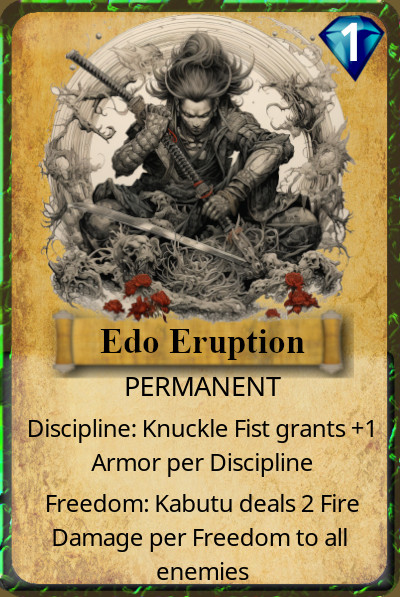
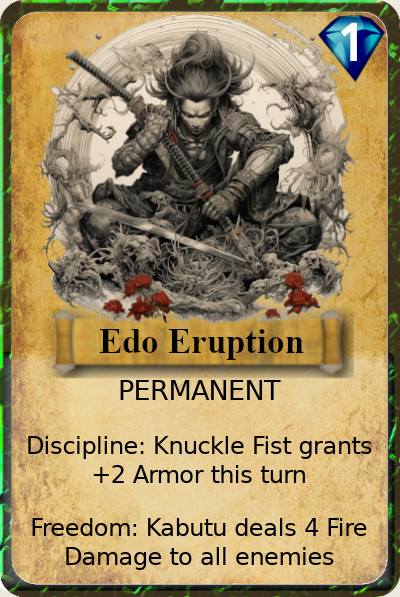
minor balance updates

diff --git a/level1fight2.js b/level1fight2.js
@@ -749,7 +749,7 @@ class Level1Fight2 extends BaseScene {self
         }
         
         function normalizeCard(card, target, isLastEnemy = false) {
-            const stancePoints = gameState.player.stancePoints
+            const stancePoints = gameState.player.stancePoints;
 
             const moshpitMassacreCondition = (card.key === 'moshpitMassacre' && stancePoints > 0 && target.poison > 0);
             const scorchedSoulCondition = (card.key === 'scorchedSoul' && target.poison > 0);
@@ -763,22 +763,22 @@ class Level1Fight2 extends BaseScene {self
             gameState.troopsOfTakamoriCondition = (card.key === 'troopsOfTakamori' ? true : false);
             
             const steelToeOutcome = stancePoints > 0 ? 2 * (1 + stancePoints) : 2;
-            const rottenResonanceOutcome = rottenResonanceCondition ? 1 : 0    
+            const rottenResonanceOutcome = rottenResonanceCondition ? 1 : 0
 
             return {
                 damagePlayed: moshpitMassacreCondition ? 11 : getValueOrInvoke(card.damage),
-                firePlayed: kabutuEdoCondition ? 2 * stancePoints : (scorchedSoulCondition ? 13 : getValueOrInvoke(card.fire)),
+                firePlayed: kabutuEdoCondition ? 4 : (scorchedSoulCondition ? 13 : getValueOrInvoke(card.fire)),
                 stancePointsPlayed: kabutuEdoCondition && isLastEnemy ? -1 : getValueOrInvoke(card.stancePoints),
                 poisonPlayed: bladesBlightCondition ? target.poison : getValueOrInvoke(card.poison) + rottenResonanceOutcome,
                 healPlayed: getValueOrInvoke(card.heal),
                 strengthPlayed: getValueOrInvoke(card.strength),
-                armorPlayed: knuckleFistEdoCondition ? - stancePoints : getValueOrInvoke(card.armor),
+                armorPlayed: knuckleFistEdoCondition ? 2 : getValueOrInvoke(card.armor),
                 reduceTargetArmorPlayed: steelToeCondition ? steelToeOutcome : getValueOrInvoke(card.reduceTargetArmor),
                 reduceTargetStrengthPlayed: roninsRotCondition ? target.poison : getValueOrInvoke(card.reduceTargetStrength),
                 drawCardPlayed: getValueOrInvoke(card.drawCard),
                 poisonRemovePlayed: getValueOrInvoke(card.poisonRemove)
             };
-        }
+        };
         
         function activateDBeat() {
             if (gameState.discardPile.length > 0) {
@@ -2438,7 +2438,7 @@ class Level1Fight2 extends BaseScene {self
                 gameState.permanentSlots.push(            
                     { available: true, x: 50, y: 130, index: 4 },
                 );
-                gameState.deck.push( 
+                gameState.bonusCards.push( 
                     {key: 'bouncingSoles2', type: 'permanent', cost: 4, goldCost: 4, token: 'bouncingSolesToken'}
                 );
 

diff --git a/level1fight3.js b/level1fight3.js
@@ -739,7 +739,7 @@ class Level1Fight3 extends BaseScene {self
         }
         
         function normalizeCard(card, target, isLastEnemy = false) {
-            const stancePoints = gameState.player.stancePoints
+            const stancePoints = gameState.player.stancePoints;
 
             const moshpitMassacreCondition = (card.key === 'moshpitMassacre' && stancePoints > 0 && target.poison > 0);
             const scorchedSoulCondition = (card.key === 'scorchedSoul' && target.poison > 0);
@@ -753,22 +753,22 @@ class Level1Fight3 extends BaseScene {self
             gameState.troopsOfTakamoriCondition = (card.key === 'troopsOfTakamori' ? true : false);
             
             const steelToeOutcome = stancePoints > 0 ? 2 * (1 + stancePoints) : 2;
-            const rottenResonanceOutcome = rottenResonanceCondition ? 1 : 0    
+            const rottenResonanceOutcome = rottenResonanceCondition ? 1 : 0
 
             return {
                 damagePlayed: moshpitMassacreCondition ? 11 : getValueOrInvoke(card.damage),
-                firePlayed: kabutuEdoCondition ? 2 * stancePoints : (scorchedSoulCondition ? 13 : getValueOrInvoke(card.fire)),
+                firePlayed: kabutuEdoCondition ? 4 : (scorchedSoulCondition ? 13 : getValueOrInvoke(card.fire)),
                 stancePointsPlayed: kabutuEdoCondition && isLastEnemy ? -1 : getValueOrInvoke(card.stancePoints),
                 poisonPlayed: bladesBlightCondition ? target.poison : getValueOrInvoke(card.poison) + rottenResonanceOutcome,
                 healPlayed: getValueOrInvoke(card.heal),
                 strengthPlayed: getValueOrInvoke(card.strength),
-                armorPlayed: knuckleFistEdoCondition ? - stancePoints : getValueOrInvoke(card.armor),
+                armorPlayed: knuckleFistEdoCondition ? 2 : getValueOrInvoke(card.armor),
                 reduceTargetArmorPlayed: steelToeCondition ? steelToeOutcome : getValueOrInvoke(card.reduceTargetArmor),
                 reduceTargetStrengthPlayed: roninsRotCondition ? target.poison : getValueOrInvoke(card.reduceTargetStrength),
                 drawCardPlayed: getValueOrInvoke(card.drawCard),
                 poisonRemovePlayed: getValueOrInvoke(card.poisonRemove)
             };
-        }
+        };
         
         function activateDBeat() {
             if (gameState.discardPile.length > 0) {
@@ -2367,7 +2367,7 @@ class Level1Fight3 extends BaseScene {self
                 gameState.permanentSlots.push(            
                     { available: true, x: 50, y: 130, index: 4 },
                 );
-                gameState.deck.push( 
+                gameState.bonusCards.push( 
                     {key: 'bouncingSoles2', type: 'permanent', cost: 4, goldCost: 4, token: 'bouncingSolesToken'}
                 );
 

diff --git a/level2fight2.js b/level2fight2.js
@@ -768,7 +768,7 @@ class Level2Fight2 extends BaseScene {self
         }
         
         function normalizeCard(card, target, isLastEnemy = false) {
-            const stancePoints = gameState.player.stancePoints
+            const stancePoints = gameState.player.stancePoints;
 
             const moshpitMassacreCondition = (card.key === 'moshpitMassacre' && stancePoints > 0 && target.poison > 0);
             const scorchedSoulCondition = (card.key === 'scorchedSoul' && target.poison > 0);
@@ -782,22 +782,22 @@ class Level2Fight2 extends BaseScene {self
             gameState.troopsOfTakamoriCondition = (card.key === 'troopsOfTakamori' ? true : false);
             
             const steelToeOutcome = stancePoints > 0 ? 2 * (1 + stancePoints) : 2;
-            const rottenResonanceOutcome = rottenResonanceCondition ? 1 : 0    
+            const rottenResonanceOutcome = rottenResonanceCondition ? 1 : 0
 
             return {
                 damagePlayed: moshpitMassacreCondition ? 11 : getValueOrInvoke(card.damage),
-                firePlayed: kabutuEdoCondition ? 2 * stancePoints : (scorchedSoulCondition ? 13 : getValueOrInvoke(card.fire)),
+                firePlayed: kabutuEdoCondition ? 4 : (scorchedSoulCondition ? 13 : getValueOrInvoke(card.fire)),
                 stancePointsPlayed: kabutuEdoCondition && isLastEnemy ? -1 : getValueOrInvoke(card.stancePoints),
                 poisonPlayed: bladesBlightCondition ? target.poison : getValueOrInvoke(card.poison) + rottenResonanceOutcome,
                 healPlayed: getValueOrInvoke(card.heal),
                 strengthPlayed: getValueOrInvoke(card.strength),
-                armorPlayed: knuckleFistEdoCondition ? - stancePoints : getValueOrInvoke(card.armor),
+                armorPlayed: knuckleFistEdoCondition ? 2 : getValueOrInvoke(card.armor),
                 reduceTargetArmorPlayed: steelToeCondition ? steelToeOutcome : getValueOrInvoke(card.reduceTargetArmor),
                 reduceTargetStrengthPlayed: roninsRotCondition ? target.poison : getValueOrInvoke(card.reduceTargetStrength),
                 drawCardPlayed: getValueOrInvoke(card.drawCard),
                 poisonRemovePlayed: getValueOrInvoke(card.poisonRemove)
             };
-        }
+        };
         
         function activateDBeat() {
             if (gameState.discardPile.length > 0) {
@@ -2425,7 +2425,7 @@ class Level2Fight2 extends BaseScene {self
                 gameState.permanentSlots.push(            
                     { available: true, x: 50, y: 130, index: 4 },
                 );
-                gameState.deck.push( 
+                gameState.bonusCards.push( 
                     {key: 'bouncingSoles2', type: 'permanent', cost: 4, goldCost: 4, token: 'bouncingSolesToken'}
                 );
 

diff --git a/level3fight1.js b/level3fight1.js
@@ -806,15 +806,14 @@ class Level3Fight1 extends BaseScene {self
             const steelToeOutcome = stancePoints > 0 ? 2 * (1 + stancePoints) : 2;
             const rottenResonanceOutcome = rottenResonanceCondition ? 1 : 0    
 
-            //NB Level specific multiplier (1.5) for fire damage.
             return {
                 damagePlayed: moshpitMassacreCondition ? 11 : getValueOrInvoke(card.damage),
-                firePlayed: ( kabutuEdoCondition ? 2 * stancePoints : (scorchedSoulCondition ? 13 : getValueOrInvoke(card.fire)) ),
+                firePlayed: kabutuEdoCondition ? 4 : (scorchedSoulCondition ? 13 : getValueOrInvoke(card.fire)),
                 stancePointsPlayed: kabutuEdoCondition && isLastEnemy ? -1 : getValueOrInvoke(card.stancePoints),
                 poisonPlayed: bladesBlightCondition ? target.poison : getValueOrInvoke(card.poison) + rottenResonanceOutcome,
                 healPlayed: getValueOrInvoke(card.heal),
                 strengthPlayed: getValueOrInvoke(card.strength),
-                armorPlayed: knuckleFistEdoCondition ? - stancePoints : getValueOrInvoke(card.armor),
+                armorPlayed: knuckleFistEdoCondition ? 2 : getValueOrInvoke(card.armor),
                 reduceTargetArmorPlayed: steelToeCondition ? steelToeOutcome : getValueOrInvoke(card.reduceTargetArmor),
                 reduceTargetStrengthPlayed: roninsRotCondition ? target.poison : getValueOrInvoke(card.reduceTargetStrength),
                 drawCardPlayed: getValueOrInvoke(card.drawCard),
@@ -2512,7 +2511,7 @@ class Level3Fight1 extends BaseScene {self
                 gameState.permanentSlots.push(            
                     { available: true, x: 50, y: 130, index: 4 },
                 );
-                gameState.deck.push( 
+                gameState.bonusCards.push( 
                     {key: 'bouncingSoles2', type: 'permanent', cost: 4, goldCost: 4, token: 'bouncingSolesToken'}
                 );
 

diff --git a/level3fight2.js b/level3fight2.js
@@ -735,15 +735,14 @@ class Level3Fight2 extends BaseScene {self
             const steelToeOutcome = stancePoints > 0 ? 2 * (1 + stancePoints) : 2;
             const rottenResonanceOutcome = rottenResonanceCondition ? 1 : 0    
 
-            //NB Level specific multiplier (1.5) for fire damage.
             return {
                 damagePlayed: moshpitMassacreCondition ? 11 : getValueOrInvoke(card.damage),
-                firePlayed: ( kabutuEdoCondition ? 2 * stancePoints : (scorchedSoulCondition ? 13 : getValueOrInvoke(card.fire)) ),
+                firePlayed: kabutuEdoCondition ? 4 : (scorchedSoulCondition ? 13 : getValueOrInvoke(card.fire)),
                 stancePointsPlayed: kabutuEdoCondition && isLastEnemy ? -1 : getValueOrInvoke(card.stancePoints),
                 poisonPlayed: bladesBlightCondition ? target.poison : getValueOrInvoke(card.poison) + rottenResonanceOutcome,
                 healPlayed: getValueOrInvoke(card.heal),
                 strengthPlayed: getValueOrInvoke(card.strength),
-                armorPlayed: knuckleFistEdoCondition ? - stancePoints : getValueOrInvoke(card.armor),
+                armorPlayed: knuckleFistEdoCondition ? 2 : getValueOrInvoke(card.armor),
                 reduceTargetArmorPlayed: steelToeCondition ? steelToeOutcome : getValueOrInvoke(card.reduceTargetArmor),
                 reduceTargetStrengthPlayed: roninsRotCondition ? target.poison : getValueOrInvoke(card.reduceTargetStrength),
                 drawCardPlayed: getValueOrInvoke(card.drawCard),
@@ -2472,7 +2471,7 @@ class Level3Fight2 extends BaseScene {self
                 gameState.permanentSlots.push(            
                     { available: true, x: 50, y: 130, index: 4 },
                 );
-                gameState.deck.push( 
+                gameState.bonusCards.push( 
                     {key: 'bouncingSoles2', type: 'permanent', cost: 4, goldCost: 4, token: 'bouncingSolesToken'}
                 );
 

diff --git a/preload.js b/preload.js
@@ -288,7 +288,7 @@ class Preload extends Phaser.Scene {
             {key: 'coverCharge',        type: 'buff',           cost: 2, stancePoints: 0, damage: 0, fire: 0, poison: 0, heal: 0, poisonRemove: 0, strength: 0, armor: 0, reduceTargetArmor: 0, reduceTargetStrength: 0, drawCard: 0, oneShot: true},
             {key: 'seppuku',            type: 'buff',           cost: 1, stancePoints: 0, damage: 0, fire: 0, poison: 0, heal: -5, poisonRemove: 0, strength: () => gameState.player.stancePoints < 0 ? 1 - gameState.player.stancePoints : 1, armor: 0, reduceTargetArmor: 0, reduceTargetStrength: 0, drawCard: 0},
             {key: 'canibalize',         type: 'buff',           cost: 1, stancePoints: 0, damage: 0, fire: 0, poison: 0, heal: 0, poisonRemove: 0, strength: 0, armor: 0, reduceTargetArmor: 0, reduceTargetStrength: 0, drawCard: 0},
-            {key: 'saisenBlaster',      type: 'buff',           cost: 1, goldCost: 1, stancePoints: 1, damage: 0, fire: 0, poison: 0, heal: 0, poisonRemove: 0, strength: 0, armor: 10, reduceTargetArmor: 0, reduceTargetStrength: 0, drawCard: 0},
+            {key: 'saisenBlaster',      type: 'buff',           cost: 1, goldCost: 1, stancePoints: -2, damage: 0, fire: 0, poison: 0, heal: 0, poisonRemove: 0, strength: 0, armor: 10, reduceTargetArmor: 0, reduceTargetStrength: 0, drawCard: 0},
            
             {key: 'bassSolo',           type: 'targetAll',      cost: 1, stancePoints: 0, damage: 6, fire: 0, poison: 0, heal: 0, poisonRemove: 0, strength: 0, armor: 0, reduceTargetArmor: 0, reduceTargetStrength: 0, drawCard: 0},
             {key: 'rottenResonance',    type: 'targetAll',      cost: 1, stancePoints: 0, damage: 0, fire: 0, poison: 1, heal: 0, poisonRemove: 0, strength: 0, armor: 0, reduceTargetArmor: 0, reduceTargetStrength: 0, drawCard: 0},

diff --git a/level3fight3.js b/level3fight3.js
@@ -776,12 +776,12 @@ class Level3Fight3 extends BaseScene {self
             //NB Level specific multiplier (1.5) for fire damage.
             return {
                 damagePlayed: moshpitMassacreCondition ? 11 : getValueOrInvoke(card.damage),
-                firePlayed: ( kabutuEdoCondition ? 2 * stancePoints : (scorchedSoulCondition ? 13 : getValueOrInvoke(card.fire)) ),
+                firePlayed: kabutuEdoCondition ? 4 : (scorchedSoulCondition ? 13 : getValueOrInvoke(card.fire)),
                 stancePointsPlayed: kabutuEdoCondition && isLastEnemy ? -1 : getValueOrInvoke(card.stancePoints),
                 poisonPlayed: bladesBlightCondition ? target.poison : getValueOrInvoke(card.poison) + rottenResonanceOutcome,
                 healPlayed: getValueOrInvoke(card.heal),
                 strengthPlayed: getValueOrInvoke(card.strength),
-                armorPlayed: knuckleFistEdoCondition ? - stancePoints : getValueOrInvoke(card.armor),
+                armorPlayed: knuckleFistEdoCondition ? 2 : getValueOrInvoke(card.armor),
                 reduceTargetArmorPlayed: steelToeCondition ? steelToeOutcome : getValueOrInvoke(card.reduceTargetArmor),
                 reduceTargetStrengthPlayed: roninsRotCondition ? target.poison : getValueOrInvoke(card.reduceTargetStrength),
                 drawCardPlayed: getValueOrInvoke(card.drawCard),
@@ -2494,7 +2494,7 @@ class Level3Fight3 extends BaseScene {self
                 gameState.permanentSlots.push(            
                     { available: true, x: 50, y: 130, index: 4 },
                 );
-                gameState.deck.push( 
+                gameState.bonusCards.push( 
                     {key: 'bouncingSoles2', type: 'permanent', cost: 4, goldCost: 4, token: 'bouncingSolesToken'}
                 );
 

diff --git a/level2fight3.js b/level2fight3.js
@@ -745,12 +745,12 @@ class Level2Fight3 extends BaseScene {self
             
             return {
                 damagePlayed: moshpitMassacreCondition ? 11 : getValueOrInvoke(card.damage),
-                firePlayed: fireMultiplier * ( kabutuEdoCondition ? 2 * stancePoints : (scorchedSoulCondition ? 13 : getValueOrInvoke(card.fire)) ),
+                firePlayed: fireMultiplier * ( kabutuEdoCondition ? 4 : (scorchedSoulCondition ? 13 : getValueOrInvoke(card.fire)) ),
                 stancePointsPlayed: kabutuEdoCondition && isLastEnemy ? -1 : getValueOrInvoke(card.stancePoints),
                 poisonPlayed: bladesBlightCondition ? target.poison : getValueOrInvoke(card.poison) + rottenResonanceOutcome,
                 healPlayed: getValueOrInvoke(card.heal),
                 strengthPlayed: getValueOrInvoke(card.strength),
-                armorPlayed: knuckleFistEdoCondition ? - stancePoints : getValueOrInvoke(card.armor),
+                armorPlayed: knuckleFistEdoCondition ? 2 : getValueOrInvoke(card.armor),
                 reduceTargetArmorPlayed: steelToeCondition ? steelToeOutcome : getValueOrInvoke(card.reduceTargetArmor),
                 reduceTargetStrengthPlayed: roninsRotCondition ? target.poison : getValueOrInvoke(card.reduceTargetStrength),
                 drawCardPlayed: getValueOrInvoke(card.drawCard),
@@ -2481,7 +2481,7 @@ class Level2Fight3 extends BaseScene {self
                 gameState.permanentSlots.push(            
                     { available: true, x: 50, y: 130, index: 4 },
                 );
-                gameState.deck.push( 
+                gameState.bonusCards.push( 
                     {key: 'bouncingSoles2', type: 'permanent', cost: 4, goldCost: 4, token: 'bouncingSolesToken'}
                 );
 

diff --git a/level2fight1.js b/level2fight1.js
@@ -820,12 +820,12 @@ class Level2Fight1 extends BaseScene {self
 
             return {
                 damagePlayed: moshpitMassacreCondition ? 11 : getValueOrInvoke(card.damage),
-                firePlayed: fireMultiplier * ( kabutuEdoCondition ? 2 * stancePoints : (scorchedSoulCondition ? 13 : getValueOrInvoke(card.fire)) ),
+                firePlayed: fireMultiplier * ( kabutuEdoCondition ? 4 : (scorchedSoulCondition ? 13 : getValueOrInvoke(card.fire)) ),
                 stancePointsPlayed: kabutuEdoCondition && isLastEnemy ? -1 : getValueOrInvoke(card.stancePoints),
                 poisonPlayed: bladesBlightCondition ? target.poison : getValueOrInvoke(card.poison) + rottenResonanceOutcome,
                 healPlayed: getValueOrInvoke(card.heal),
                 strengthPlayed: getValueOrInvoke(card.strength),
-                armorPlayed: knuckleFistEdoCondition ? - stancePoints : getValueOrInvoke(card.armor),
+                armorPlayed: knuckleFistEdoCondition ? 2 : getValueOrInvoke(card.armor),
                 reduceTargetArmorPlayed: steelToeCondition ? steelToeOutcome : getValueOrInvoke(card.reduceTargetArmor),
                 reduceTargetStrengthPlayed: roninsRotCondition ? target.poison : getValueOrInvoke(card.reduceTargetStrength),
                 drawCardPlayed: getValueOrInvoke(card.drawCard),
@@ -2498,7 +2498,7 @@ class Level2Fight1 extends BaseScene {self
                 gameState.permanentSlots.push(            
                     { available: true, x: 50, y: 130, index: 4 },
                 );
-                gameState.deck.push( 
+                gameState.bonusCards.push( 
                     {key: 'bouncingSoles2', type: 'permanent', cost: 4, goldCost: 4, token: 'bouncingSolesToken'}
                 );
 

diff --git a/level1fight1.js b/level1fight1.js
@@ -775,12 +775,12 @@ class Level1Fight1 extends BaseScene {self
 
             return {
                 damagePlayed: moshpitMassacreCondition ? 11 : getValueOrInvoke(card.damage),
-                firePlayed: kabutuEdoCondition ? 2 * stancePoints : (scorchedSoulCondition ? 13 : getValueOrInvoke(card.fire)),
+                firePlayed: kabutuEdoCondition ? 4 : (scorchedSoulCondition ? 13 : getValueOrInvoke(card.fire)),
                 stancePointsPlayed: kabutuEdoCondition && isLastEnemy ? -1 : getValueOrInvoke(card.stancePoints),
                 poisonPlayed: bladesBlightCondition ? target.poison : getValueOrInvoke(card.poison) + rottenResonanceOutcome,
                 healPlayed: getValueOrInvoke(card.heal),
                 strengthPlayed: getValueOrInvoke(card.strength),
-                armorPlayed: knuckleFistEdoCondition ? - stancePoints : getValueOrInvoke(card.armor),
+                armorPlayed: knuckleFistEdoCondition ? 2 : getValueOrInvoke(card.armor),
                 reduceTargetArmorPlayed: steelToeCondition ? steelToeOutcome : getValueOrInvoke(card.reduceTargetArmor),
                 reduceTargetStrengthPlayed: roninsRotCondition ? target.poison : getValueOrInvoke(card.reduceTargetStrength),
                 drawCardPlayed: getValueOrInvoke(card.drawCard),
@@ -2357,7 +2357,7 @@ class Level1Fight1 extends BaseScene {self
                 gameState.permanentSlots.push(            
                     { available: true, x: 50, y: 130, index: 4 },
                 );
-                gameState.deck.push( 
+                gameState.bonusCards.push( 
                     {key: 'bouncingSoles2', type: 'permanent', cost: 4, goldCost: 4, token: 'bouncingSolesToken'}
                 );
 

diff --git a/dev tools/update_function.py b/dev tools/update_function.py
@@ -1,57 +1,30 @@
-old_code = """function updateStrengthAndArmor(character) { 
-            let strengthBushido = 0
+old_code = """return {
+                damagePlayed: moshpitMassacreCondition ? 11 : getValueOrInvoke(card.damage),
+                firePlayed: kabutuEdoCondition ? 2 * stancePoints : (scorchedSoulCondition ? 13 : getValueOrInvoke(card.fire)),
+                stancePointsPlayed: kabutuEdoCondition && isLastEnemy ? -1 : getValueOrInvoke(card.stancePoints),
+                poisonPlayed: bladesBlightCondition ? target.poison : getValueOrInvoke(card.poison) + rottenResonanceOutcome,
+                healPlayed: getValueOrInvoke(card.heal),
+                strengthPlayed: getValueOrInvoke(card.strength),
+                armorPlayed: knuckleFistEdoCondition ? - stancePoints : getValueOrInvoke(card.armor),
+                reduceTargetArmorPlayed: steelToeCondition ? steelToeOutcome : getValueOrInvoke(card.reduceTargetArmor),
+                reduceTargetStrengthPlayed: roninsRotCondition ? target.poison : getValueOrInvoke(card.reduceTargetStrength),
+                drawCardPlayed: getValueOrInvoke(card.drawCard),
+                poisonRemovePlayed: getValueOrInvoke(card.poisonRemove)
+            };"""
 
-            if (gameState.endOfTurnButtonPressed) {
-                character.armor = Math.min(character.armorMax, character.armorBase + character.armorCard + character.armorStance);
-                strengthBushido = gameState.bushido ? Math.floor(character.armor / 4) : 0; // Account for Bushido
-                
-                character.strength = Math.min(
-                    character.strengthMax, character.strengthBase + character.strengthStance + strengthBushido
-                );
-            
-            } else {
-                character.armor = Math.min(character.armorMax, character.armorBase + character.armorCard);
-                strengthBushido = gameState.bushido ? Math.floor(character.armor / 4) : 0; // Account for Bushido
-                
-                character.strength = Math.min(
-                    character.strengthMax, character.strengthBase + character.strengthStance + character.strengthCard + strengthBushido
-                ); 
-            }
-
-            if (gameState.kamishimoUberAlles > 0 && gameState.player.stancePoints < 0) { // Adjust for Strength tokens
-                
-                character.strength = Math.min(
-                    character.strengthMax, character.strength - gameState.player.stancePoints * gameState.kamishimoUberAlles
-                );
-            }
-
-            updateStats(character)
-        }"""
-
-new_code = """function updateStrengthAndArmor(character) { 
-            let strengthBushido = 0
-
-            if (gameState.endOfTurnButtonPressed) {
-                character.armor = Math.min(character.armorMax, character.armorBase + character.armorCard + character.armorStance);
-                strengthBushido = gameState.bushido ? Math.floor(character.armor / 4) : 0; // Account for Bushido
-                character.strength = Math.min(character.strengthMax, character.strengthBase + character.strengthStance + strengthBushido);
-            
-            } else {
-                character.armor = Math.min(character.armorMax, character.armorBase + character.armorCard);
-                strengthBushido = gameState.bushido ? Math.floor(character.armor / 4) : 0; // Account for Bushido
-                character.strength = Math.min(character.strengthMax, character.strengthBase + character.strengthStance + character.strengthCard + strengthBushido); 
-            }
-
-            if (gameState.kamishimoUberAlles && gameState.player.stancePoints < 0) { // Adjust for Strength tokens
-                character.strength = Math.min(character.strengthMax, character.strength - gameState.player.stancePoints * gameState.kamishimoUberAlles);
-            }
-
-            if (gameState.shogunsShellCondition && gameState.player.stancePoints < 0) { //Account for Shogun's Shell
-                character.armor = Math.min(character.armorMax, character.armor - gameState.player.stancePoints * gameState.shogunsShellCondition);
-            }
-
-            updateStats(character)
-        }"""
+new_code = """return {
+                damagePlayed: moshpitMassacreCondition ? 11 : getValueOrInvoke(card.damage),
+                firePlayed: kabutuEdoCondition ? 4 : (scorchedSoulCondition ? 13 : getValueOrInvoke(card.fire)),
+                stancePointsPlayed: kabutuEdoCondition && isLastEnemy ? -1 : getValueOrInvoke(card.stancePoints),
+                poisonPlayed: bladesBlightCondition ? target.poison : getValueOrInvoke(card.poison) + rottenResonanceOutcome,
+                healPlayed: getValueOrInvoke(card.heal),
+                strengthPlayed: getValueOrInvoke(card.strength),
+                armorPlayed: knuckleFistEdoCondition ? 2 : getValueOrInvoke(card.armor),
+                reduceTargetArmorPlayed: steelToeCondition ? steelToeOutcome : getValueOrInvoke(card.reduceTargetArmor),
+                reduceTargetStrengthPlayed: roninsRotCondition ? target.poison : getValueOrInvoke(card.reduceTargetStrength),
+                drawCardPlayed: getValueOrInvoke(card.drawCard),
+                poisonRemovePlayed: getValueOrInvoke(card.poisonRemove)
+            };"""
 
 levels = [
     "Level1Fight1", "Level1Fight2", "Level1Fight3",
